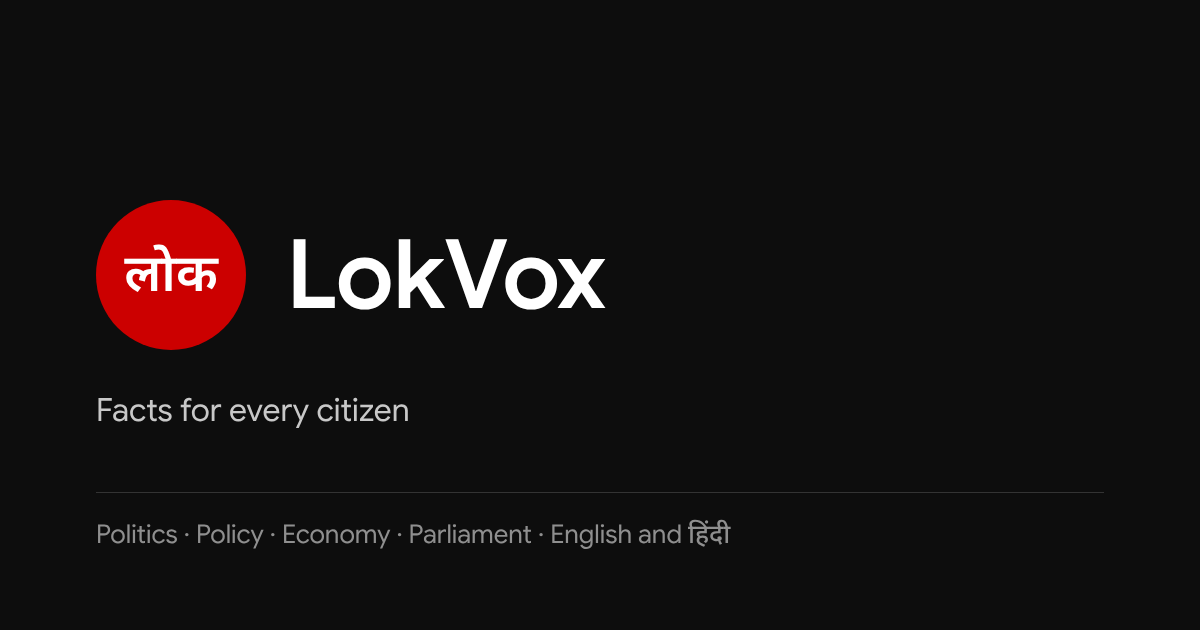
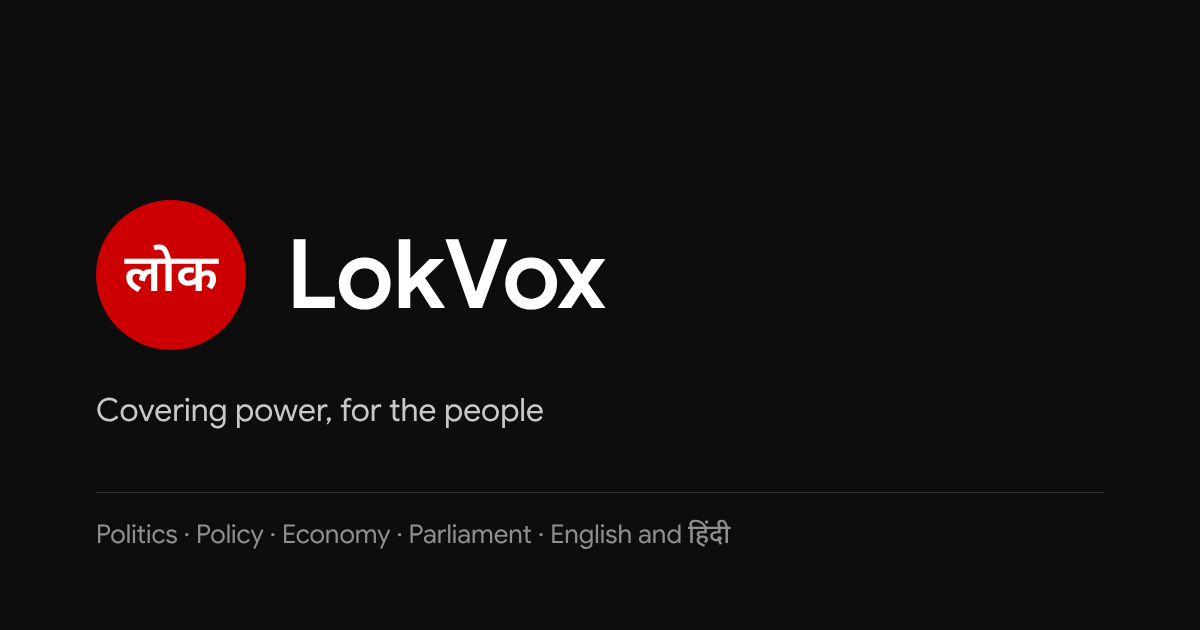
Tagline: 'Covering power, for the people' / 'सत्ता की खबर, जनता के लिए'
Claude-Session: https://claude.ai/code/session_01M6BnBbn4XrLvgJasasagNj

Changed region(s): [[0.0617, 0.6333, 0.4625, 0.6937]]

diff --git a/src/lib/i18n.ts b/src/lib/i18n.ts
@@ -4,7 +4,7 @@ export type Lang = 'en' | 'hi';
 export const UI = {
   en: {
     siteName: 'LokVox',
-    motto: 'Facts for every citizen',
+    motto: 'Covering power, for the people',
     skip: 'Skip to content',
     home: 'Home',
     more: 'More',
@@ -109,7 +109,7 @@ export const UI = {
   },
   hi: {
     siteName: 'LokVox',
-    motto: 'हर नागरिक के लिए तथ्य',
+    motto: 'सत्ता की खबर, जनता के लिए',
     skip: 'सीधे लेख पर जाएं',
     home: 'होम',
     more: 'और',

diff --git a/content/pages/hi/about.md b/content/pages/hi/about.md
@@ -9,7 +9,7 @@ updated: 2026-10-11
 
 लोकवॉक्स एक स्वतंत्र भारतीय समाचार वेबसाइट है। हम राजनीति, नीति, अर्थव्यवस्था और संसद की खबरें हिंदी और अंग्रेज़ी में प्रकाशित करते हैं।
 
-हमारा नाम दो शब्दों से बना है। लोक यानी जनता, जैसे लोकसभा में, और वॉक्स लैटिन में आवाज़ को कहते हैं। हर पेज पर लगी मुहर में लोक लिखा है, क्योंकि हम भारत की जनता के लिए लिखते हैं, किसी दल या सरकार के लिए नहीं। हमारा वादा हमारे ध्येय वाक्य में है: "हर नागरिक के लिए तथ्य"। हम वही रिपोर्ट करते हैं जिसकी जांच हो सके, अपने सबूत दिखाते हैं और अपनी गलतियां सबके सामने सुधारते हैं।
+हमारा नाम दो शब्दों से बना है। लोक यानी जनता, जैसे लोकसभा में, और वॉक्स लैटिन में आवाज़ को कहते हैं। हर पेज पर लगी मुहर में लोक लिखा है, क्योंकि हम भारत की जनता के लिए लिखते हैं, किसी दल या सरकार के लिए नहीं। हमारा ध्येय वाक्य बताता है कि हम क्या करते हैं: "सत्ता की खबर, जनता के लिए"। सरकारें, संसद, राजनीतिक दल और नियामक जो फैसले लेते हैं, हम उन पर नज़र रखते हैं और बताते हैं कि उनका असर किन लोगों पर और कैसे पड़ता है। हम वही रिपोर्ट करते हैं जिसकी जांच हो सके, अपने सबूत दिखाते हैं और अपनी गलतियां सबके सामने सुधारते हैं।
 
 ## हम क्या प्रकाशित करते हैं
 

diff --git a/content/pages/en/about.md b/content/pages/en/about.md
@@ -9,7 +9,7 @@ updated: 2026-10-11
 
 LokVox is an independent Indian news site that covers politics, policy, the economy and Parliament, in English and Hindi.
 
-Our name joins two words. Lok is Hindi for people, as in Lok Sabha, and vox is Latin for voice. The seal on every page carries लोक, because we write for the people of India, not for any party or government. Our promise is in our line: "Facts for every citizen". We report what can be checked, show our evidence and correct our mistakes in public.
+Our name joins two words. Lok is Hindi for people, as in Lok Sabha, and vox is Latin for voice. The seal on every page carries लोक, because we write for the people of India, not for any party or government. Our line says what we do: "Covering power, for the people". We follow what governments, Parliament, parties and regulators decide, and explain what it means for the people it affects. We report what can be checked, show our evidence and correct our mistakes in public.
 
 ## What we publish
 
